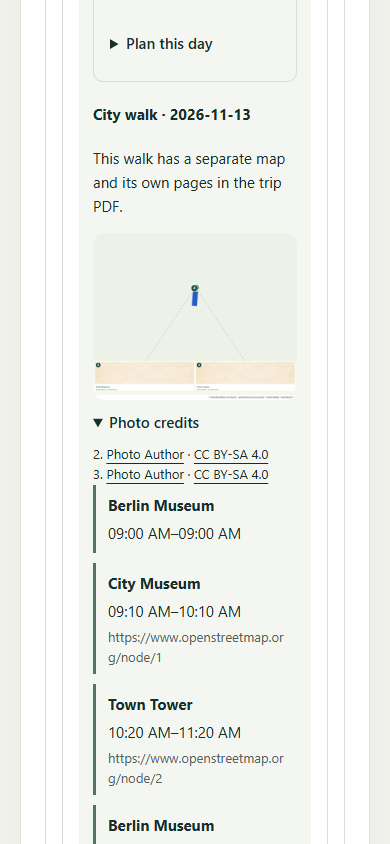
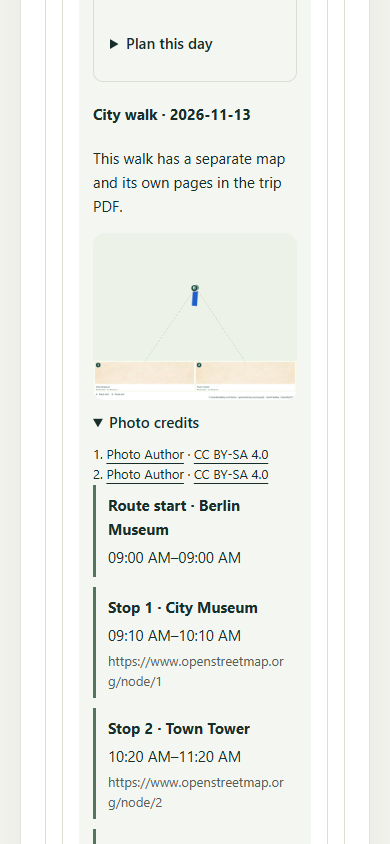
Prepare PostGIS history import and map provider deployment
Add server-only GeoPackage download, bounded import configuration, migrations, CSP and Russian validation report. Historical database import and full GeoTools verification remain pending network access.

Changed region(s): [[0.2769, 0.5853, 0.7385, 0.9858], [0.2154, 0.8009, 0.2462, 0.8318]]

diff --git a/scripts/cache-maven-artifacts.py b/scripts/cache-maven-artifacts.py
@@ -1,0 +1,50 @@
+#!/usr/bin/env python3
+"""Retry explicitly unresolved Maven artifacts through standard HTTPS repositories.
+
+Used when Maven's Java transport times out while the workstation HTTPS proxy works.
+No credentials, mirrors or application configuration are changed.
+"""
+import argparse
+import concurrent.futures
+import pathlib
+import re
+import urllib.request
+import zipfile
+
+parser = argparse.ArgumentParser()
+parser.add_argument('log', type=pathlib.Path)
+parser.add_argument('cache', type=pathlib.Path)
+args = parser.parse_args()
+raw = args.log.read_bytes()
+content = raw.decode('utf-16') if raw.startswith((b'\xff\xfe', b'\xfe\xff')) else raw.decode('utf-8', errors='replace')
+artifacts = sorted(set(re.findall(r'([\w.\-]+):([\w.\-]+):jar:([\w.\-]+) \(absent\)', content)))
+
+def fetch(coordinates):
+    group, artifact, version = coordinates
+    relative = '/'.join([group.replace('.', '/'), artifact, version, f'{artifact}-{version}.jar'])
+    target = args.cache / relative
+    if target.is_file():
+        return artifact, True
+    target.parent.mkdir(parents=True, exist_ok=True)
+    partial = target.with_suffix('.jar.download')
+    repositories = ['https://repo.maven.apache.org/maven2/', 'https://repo1.maven.org/maven2/', 'https://maven-central.storage-download.googleapis.com/maven2/', 'https://repo.osgeo.org/repository/release/', 'https://repo.osgeo.org/repository/geotools-releases/']
+    for base in repositories:
+        try:
+            with urllib.request.urlopen(base + relative, timeout=12) as response, partial.open('wb') as output:
+                while chunk := response.read(65536):
+                    output.write(chunk)
+            if not zipfile.is_zipfile(partial):
+                raise ValueError('Not a JAR')
+            partial.replace(target)
+            return artifact, True
+        except Exception:
+            partial.unlink(missing_ok=True)
+    return artifact, False
+
+with concurrent.futures.ThreadPoolExecutor(max_workers=4) as pool:
+    results = []
+    for future in concurrent.futures.as_completed([pool.submit(fetch, item) for item in artifacts]):
+        artifact, ok = future.result()
+        results.append((artifact, ok))
+        print(artifact, 'cached' if ok else 'FAILED', flush=True)
+raise SystemExit(0 if all(ok for _, ok in results) else 1)

diff --git a/reports/LOCAL-2026-11-14.md b/reports/LOCAL-2026-11-14.md
@@ -1,0 +1,46 @@
+# Локальная доработка 14 ноября 2026
+
+## Что изменено
+
+- Русскому интерфейсу добавлен выбор текущей карты или Яндекс Карт. Используется только JavaScript API: адреса и POI по-прежнему приходят из Photon/OSM/Wikimapia/2GIS. Метки связаны со списком, геометрия прогулки отображается на карте. Можно выбрать точку маршрута касанием; выбранная координата отмечается красным. При смене языка на другой Яндекс-вариант скрывается. Печатный документ сохраняет прежнюю карту OSM. Добавлены настройки браузерного ключа и CSP обеих конфигураций Nginx.
+- Мистическая тема направлена в локальную таблицу и CSV: 173 исходных записи, без обращений к внешним POI-сервисам. Добавлены валидация, BOM/кавычки/переносы строк, пропуск ошибочных строк, повторный импорт без дублирования, ссылки на источники. Одинаковые координаты не повторяются в прогулке.
+- Добавлены таблица исторических зданий, JTS-модель, API по координате и поиск рядом по адресу, архитектору или стилю. Исторические сведения дополняют описания POI; в отдельной прогулке появилась тема «Исторические дома». Описания и метаданные сохраняются в модели документа и выводятся в PDF. UI-подписи переведены на девять языков.
+- Реализован GeoTools-импорт GeoPackage: чтение реальных колонок HOITH, преобразование EPSG:3857 → EPSG:4326, стабильные ID при отсутствии OSM ID, UPSERT пачками до 250 записей с дополнительным ограничением оценочного объёма. SQLite mmap ограничен 32 МБ, пул — одним соединением; исходник открывается только для чтения. Импорт включается явно. Для базы старых домов по умолчанию задан известный год постройки 1000–1945, доступны фильтр городов и повторная загрузка.
+- В инфраструктуре подготовлены PostGIS-образ PostgreSQL 17 Alpine, миграции до запуска приложения, read-only каталог импорта, Linux/PowerShell-скрипты скачивания. Локальный профиль OAuth/JWT/Cookie сохранён; добавлен только путь CSV.
+- Исправлен возрастной отбор стихов: для взрослых подборок учитывается явная детская жанровая маркировка издателя; детское произведение не возвращается через резервный источник после такого отказа. Старые неизменяемые подборки автоматически не переписываются.
+- На странице решений сначала показаны три основных сценария; остальные доступны по категориям и поиску. Подробные преимущества раскрываются по желанию. Добавлены события Метрики без отправки текста поиска. Счётчики клиентов и отзывы не выдумывались.
+
+## Что сохранено
+
+Контрольные суммы подтвердили сохранность пользовательских изменений в `WikimapiaKeyProvider`, `OsmPoiSource`, `PhotonPoiSource`, `WalkRemote`, `NiCOsmMcpClient`. Сохранены пользовательские настройки Overpass и диагностика; в `WalkThemeService` добавлены отдельные ветви и зависимости без замены существующего алгоритма остальных тем. Прежние конструкторы кандидатов и сервиса доступны для совместимости.
+
+## Файл на сервере
+
+С разрешения пользователя GeoPackage скачан **только на сервер** в `/home/ticket/codoc/data/imports/hoith.gpkg`. Размер подтверждён: **1 801 277 440 байт**, слой `all_cities_181123`, **3 550 042 объекта**, EPSG:3857. Проверены реальные поля и две записи. Это скачивание файла, не импорт в PostgreSQL. На рабочем компьютере копии GeoPackage нет.
+
+## Выполненные проверки
+
+- До добавления HOITH полный Maven `verify`: 274 теста, 0 ошибок, 1 пропуск OCR. Это результат предыдущего состояния, не полный прогон нового GeoTools-импорта.
+- После новых слоёв: изолированная диагностическая сборка ядра без GeoTools-классов `HoithImporter`/`HoithBootstrap` — **20 тестов прошли**, включая настоящий старт H2, импорт 173 CSV-записей, локальный REST-поиск мистических мест, отсутствие вызовов удалённых POI-источников, повторный CSV-импорт, JTS-поиск здания и приоритет паспортного источника, UPSERT, историческую справку и прежний маршрут → PDF. Производственный `pom.xml` для этого не изменялся.
+- Frontend: типы приложения/тестов/E2E, ESLint, границы модулей, **2317 сообщений без пропущенных переводов**. Production build и SEO-проверка 27 страниц прошли после добавления исторических домов.
+- Браузерный тест нового сценария исторических домов прошёл на ширине 390 px: поиск архитектора, отдельная прогулка и сохранение года/архитектора в снапшот. Ранее в этом пакете прошли 17 сценариев маршрутов, отдельных прогулок, карт и страниц решений. Альтернативная карта проверялась с подменённым SDK, не с живым ключом Яндекса.
+- Linux-скрипты и PowerShell-скрипт проверены синтаксически без выполнения деплоя. Большой файл скачивался только удалённым Linux-скриптом.
+- Финальные точечные проверки: 8 unit-тестов протокола карты и маршрута прошли; 3 E2E-сценария исторических домов и Яндекс-варианта на 390/1440 px прошли, включая переключение на английский. Финальная production-сборка и SEO повторно прошли.
+
+## Локальные коммиты
+
+Работа сохранена локально: backend `0cd8b68`, frontend `ac721cf`. В backend-коммите сохранены текущие пользовательские правки источников. Коммитирование не означает успешную отправку на GitHub или промышленную готовность GeoTools-импорта.
+
+## Что пока не подтверждено
+
+Полная текущая Java-сборка остановилась на недоступности части GeoTools/SQLite/EMF-зависимостей: HTTPS-загрузки дали тайм-ауты. Поэтому полноценный GeoPackage-тест и полный `mvn verify` новой версии ещё не объявляются успешными. Нативный `PostgisPlacesTest` подготовлен для отдельной тестовой базы, но на реальном PostGIS в этой сессии не запускался.
+
+Последние попытки SSH к серверу и GitHub завершались закрытием соединения или тайм-аутом до авторизации; HTTPS сайта также не отвечал из текущего окружения. **Изменения этого пакета ещё не отправлены в Git, не задеплоены; историческая база в PostgreSQL ещё не загружена.** Последнее разрешение пользователя на отправку, деплой и импорт действует: после восстановления доступа следует закончить зависимости и проверки, отправить все три репозитория, запустить только `ticket-infra/deploy.sh`, дождаться импорта и подтвердить SQL-количество строк, API и PDF.
+
+Расширение на 500 + 500 + 500 новых мистических мест отложено по последнему указанию пользователя. Найденные поиском статьи не превращались в вымышленные 1500 записей. Текущее число 173 относится к объединённому пользовательскому CSV.
+
+## Оценка
+
+Серверное ядро поиска и UI имеют проверяемые результаты. Готовность к промышленной публикации пока не подтверждена: остаются полноценный GeoTools-прогон, нативный PostGIS, деплой и фактический импорт. Полную задачу считать завершённой до этих действий нельзя.
+
+Настройки, команды и ограничения описаны в [BUILDING-HISTORY.md](../BUILDING-HISTORY.md).

diff --git a/BUILDING-HISTORY.md b/BUILDING-HISTORY.md
@@ -1,0 +1,66 @@
+# Исторические дома и мистические прогулки
+
+## Источники
+
+`mystic` получает места из локальной таблицы `mystic_places`, без запросов к OSM, Photon или Wikimapia. Встроенный UTF-8 CSV содержит 173 записи из присланных пользователем подборок; повторяющиеся строки и склеенные заголовки удалены. Разные легенды с одинаковыми координатами сохраняются в базе, но в маршрут попадает одна точка на координату. Содержимое — городские предания из пользовательской подборки, а не утверждение о доказанности сверхъестественных явлений. Ссылки ведут на указанные источники.
+
+`bars`, `religious`, `cultural` сохраняют прежнюю цепочку источников. После подбора их описания дополняются доступными сведениями о здании из `building_history`. Названия года, архитектора и стиля переведены на девять языков.
+
+На фронте в отдельной прогулке есть тема **«Исторические дома»**. Можно искать адрес, архитектора или стиль, выбирать дома, видеть их на альтернативной карте Яндекса и создавать отдельную прогулку. Историческая справка сохраняется в описаниях точек и попадает в PDF через существующий механизм документа.
+
+## HOITH: фактическая структура файла
+
+Публичный файл: <https://disk.yandex.ru/d/6rI165UaOpvG0A>.
+Проверен скачанный **на сервере** GeoPackage: 1 801 277 440 байт, 3 550 042 объекта, слой `all_cities_181123`, EPSG:3857. В нём нет OSM ID. Импорт использует стабильный идентификатор `hoith:<слой>:<fid>`, преобразует геометрию в EPSG:4326 и читает реальные поля `r_year_int`, `r_adress`, `r_architect`, `r_style`, `r_mkrf`, `r_url`.
+
+Исходный файл не помещается в Git и не скачивается на рабочий компьютер. Скачать на сервере из каталога `/home/ticket/codoc`:
+
+```bash
+bash ticket-infra/download_hoith.sh ./data/imports
+```
+
+Скрипт получает подписанный URL через API публичных ресурсов Яндекс.Диска, проверяет свободное место, размер и структуру SQLite, затем переименовывает `.part`. Готовый файл сохраняется. Подписанная ссылка в журнал не выводится. `download_hoith.ps1` предоставлен для других машин с достаточным местом; на текущем компьютере его не запускать.
+
+## Импорт и ресурсы
+
+PostgreSQL 17 должен содержать PostGIS. Compose использует `postgis/postgis:17-3.5-alpine`, сохраняя прежний major PostgreSQL, Alpine и том данных. `deploy.sh` через `scripts/deploy-postgres.sh` применяет обе SQL-миграции до старта приложения. Миграции идемпотентны. Географический GiST-индекс мистических точек соответствует выражению запроса `ST_DWithin`, расстояния измеряются в метрах.
+
+Настройки в `.env`:
+
+```dotenv
+HOITH_IMPORT_DIR=/home/ticket/codoc/data/imports
+HOITH_IMPORT_ON_STARTUP=true
+HOITH_BEFORE_YEAR=1945
+HOITH_CITIES=
+HOITH_REFRESH_ON_START=false
+```
+
+По умолчанию автоматический импорт выключен. При включении загружаются здания с известным годом 1000–1945: это база старых домов, без миллионов современных и недатированных объектов. `HOITH_BEFORE_YEAR=0` снимает возрастной фильтр и требует отдельной оценки места на диске. `HOITH_CITIES=Санкт-Петербург,Москва` ограничивает импорт городами; пустое значение оставляет всю страну. Фильтры применяются в SQLite до декодирования геометрий.
+
+GeoTools читает объекты потоково. В памяти одна пачка из 250 зданий; каждая пачка сохраняется отдельной транзакцией через UPSERT. Полный GeoPackage или полный список зданий в память не загружаются. Путь внутри контейнера — `/app/imports/hoith.gpkg`, каталог смонтирован только для чтения. Исходный файл и база занимают место отдельно.
+
+Если HOITH уже присутствует, обычный запуск не импортирует его повторно. Для обновления или возобновления после прерванного импорта включить `HOITH_REFRESH_ON_START=true`; повторные записи обновятся по стабильному ID, а не продублируются. После успешного импорта вернуть `HOITH_IMPORT_ON_STARTUP=false` и `HOITH_REFRESH_ON_START=false`. Загрузка по сети при старте не выполняется.
+
+## CSV
+
+`app.mystic.csv-path` / `MYSTIC_CSV_PATH` принимают `classpath:mystic_places.csv` или `file:/путь/файл.csv`. При пустой таблице импорт выполняется автоматически. Для обновления заполненной таблицы доступен `MYSTIC_REFRESH_ON_START=true`; существующие записи обновляются по имени и координатам, отсутствующие в новом CSV автоматически не удаляются.
+
+Обрабатываются BOM, кавычки, запятые и переносы строк внутри полей. Некорректные координаты, обязательные поля и ссылки приводят к пропуску строки с номером в журнале. Ошибка структуры CSV откатывает импорт. Ограничение — 25 000 строк. Автоматического геокодирования нет.
+
+## API и проверка
+
+```text
+GET /api/journeys/routes/places/themed?longitude=30.315&latitude=59.938&theme=mystic&language=ru&maxStops=7
+GET /api/journeys/buildings?lon=30.315&lat=59.938
+GET /api/journeys/buildings/nearby?lon=30.315&lat=59.938&radiusKm=1.5&limit=7&beforeYear=1945&q=
+```
+
+Точечный поиск возвращает 404, если координата не попала в здание; не подставляет произвольный соседний дом. На границе полигона здание находится через `ST_Covers`. `SPB_PASSPORT` имеет приоритет над HOITH. Поиск рядом ограничен 12 результатами и радиусом 3 км; запрос поиска параметризован. Возвращается компактный JSON без сериализации полной JTS-геометрии.
+
+В H2 используется отдельный путь без PostGIS DDL: мистические точки проходят проверку расстояния после ограничивающего прямоугольника; исторические здания — JTS-предикат. H2-поиск зданий ограничен 5000 записями и предназначен для локальных тестов, не для полной базы HOITH.
+
+Для нативного теста SQL нужен отдельный PostgreSQL/PostGIS с именем базы, содержащим `test`: `CODOC_POSTGIS_TEST_URL`, `CODOC_POSTGIS_TEST_USER`, `CODOC_POSTGIS_TEST_PASSWORD`. `PostgisPlacesTest` откатывает данные и DDL транзакции; без этих переменных тест явно пропускается. Проверка H2 не объявляется проверкой PostGIS.
+
+## Подборки по 500 мест
+
+Запрошенное расширение на 1500 новых мест отложено по последнему указанию пользователя, чтобы завершить продукт и импорт исторических домов. В текущую подборку не добавлены выдуманные координаты или обычные дома, названные мистическими ради количества. 173 записи — исходная объединённая подборка, а не 1500 найденных и проверенных новых мест.

diff --git a/WALKS.md b/WALKS.md
@@ -77,3 +77,11 @@ gardens:
 Для новой темы также добавить локализованный выбор в интерфейсе. Крупные парки текущий лимит 300 м отсекает намеренно: для них нужен отдельный сценарий входов/маршрутов, а не выдача центра территории как остановки.
 
 Поставщики: [ni-c/osm-mcp](https://github.com/ni-c/osm-mcp), [Commons MCP](https://github.com/pipeworx-io/mcp-commons-wikimedia). Публичные сервисы имеют ограничения и не предоставляют гарантированного SLA.
+## Альтернативная карта Яндекса
+
+Для русского интерфейса задайте `YANDEX_MAPS_API_KEY` в серверном `.env`.
+Используется JavaScript API. Дополнительный поиск организаций, геокодер и подсказки Яндекса не подключаются: адреса ищет Photon, места — существующие OSM/Wikimapia/2GIS.
+
+Карта отображает собственные метки приложения и рассчитанную геометрию маршрута. Выбор метки связан со списком прогулки. При ошибке карты список остаётся доступным. Экспорт PDF использует прежнюю карту OSM; тайлы Яндекса в документ не копируются.
+
+Браузерный ключ выдаётся `/api/journeys/maps/providers`. Ограничьте его доменами проекта в кабинете Яндекса. Секрет Wikimapia этим эндпоинтом не выдаётся. Без ключа переключатель скрыт. CSP обеих конфигураций Nginx разрешает SDK и same-origin iframe. Следующий разрешённый запуск `deploy.sh` применит конфигурацию; локальная подготовка сама сервер не меняет.
